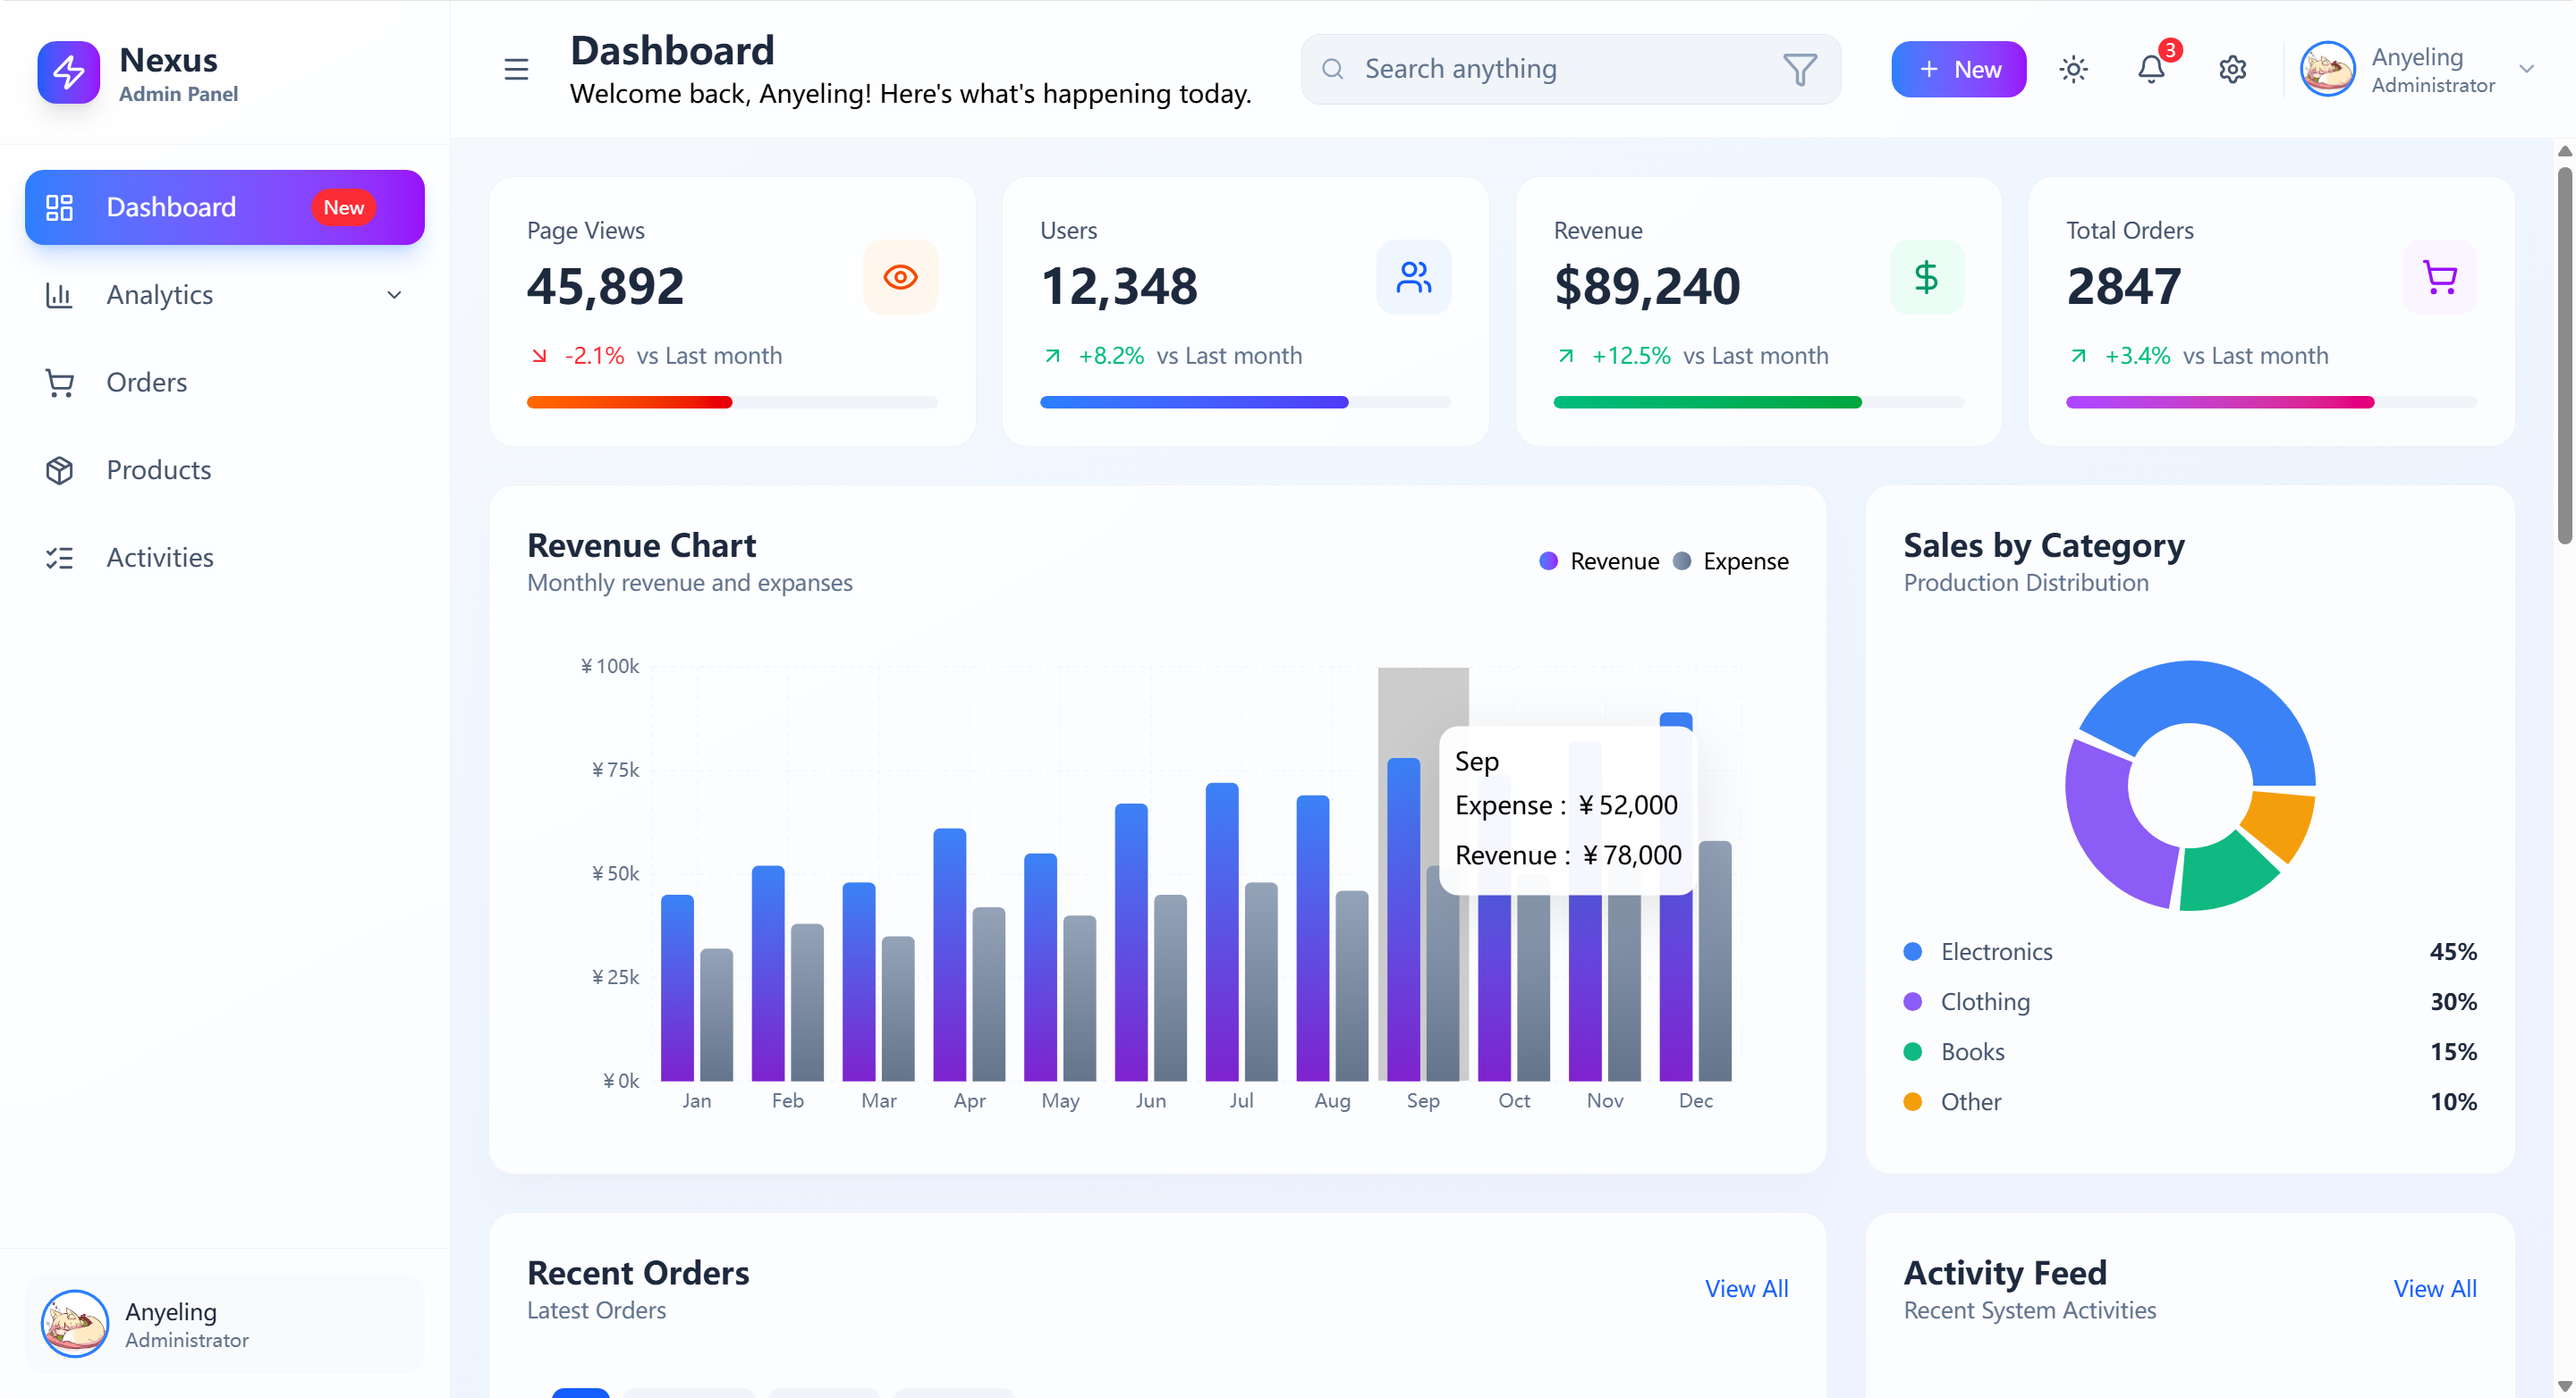
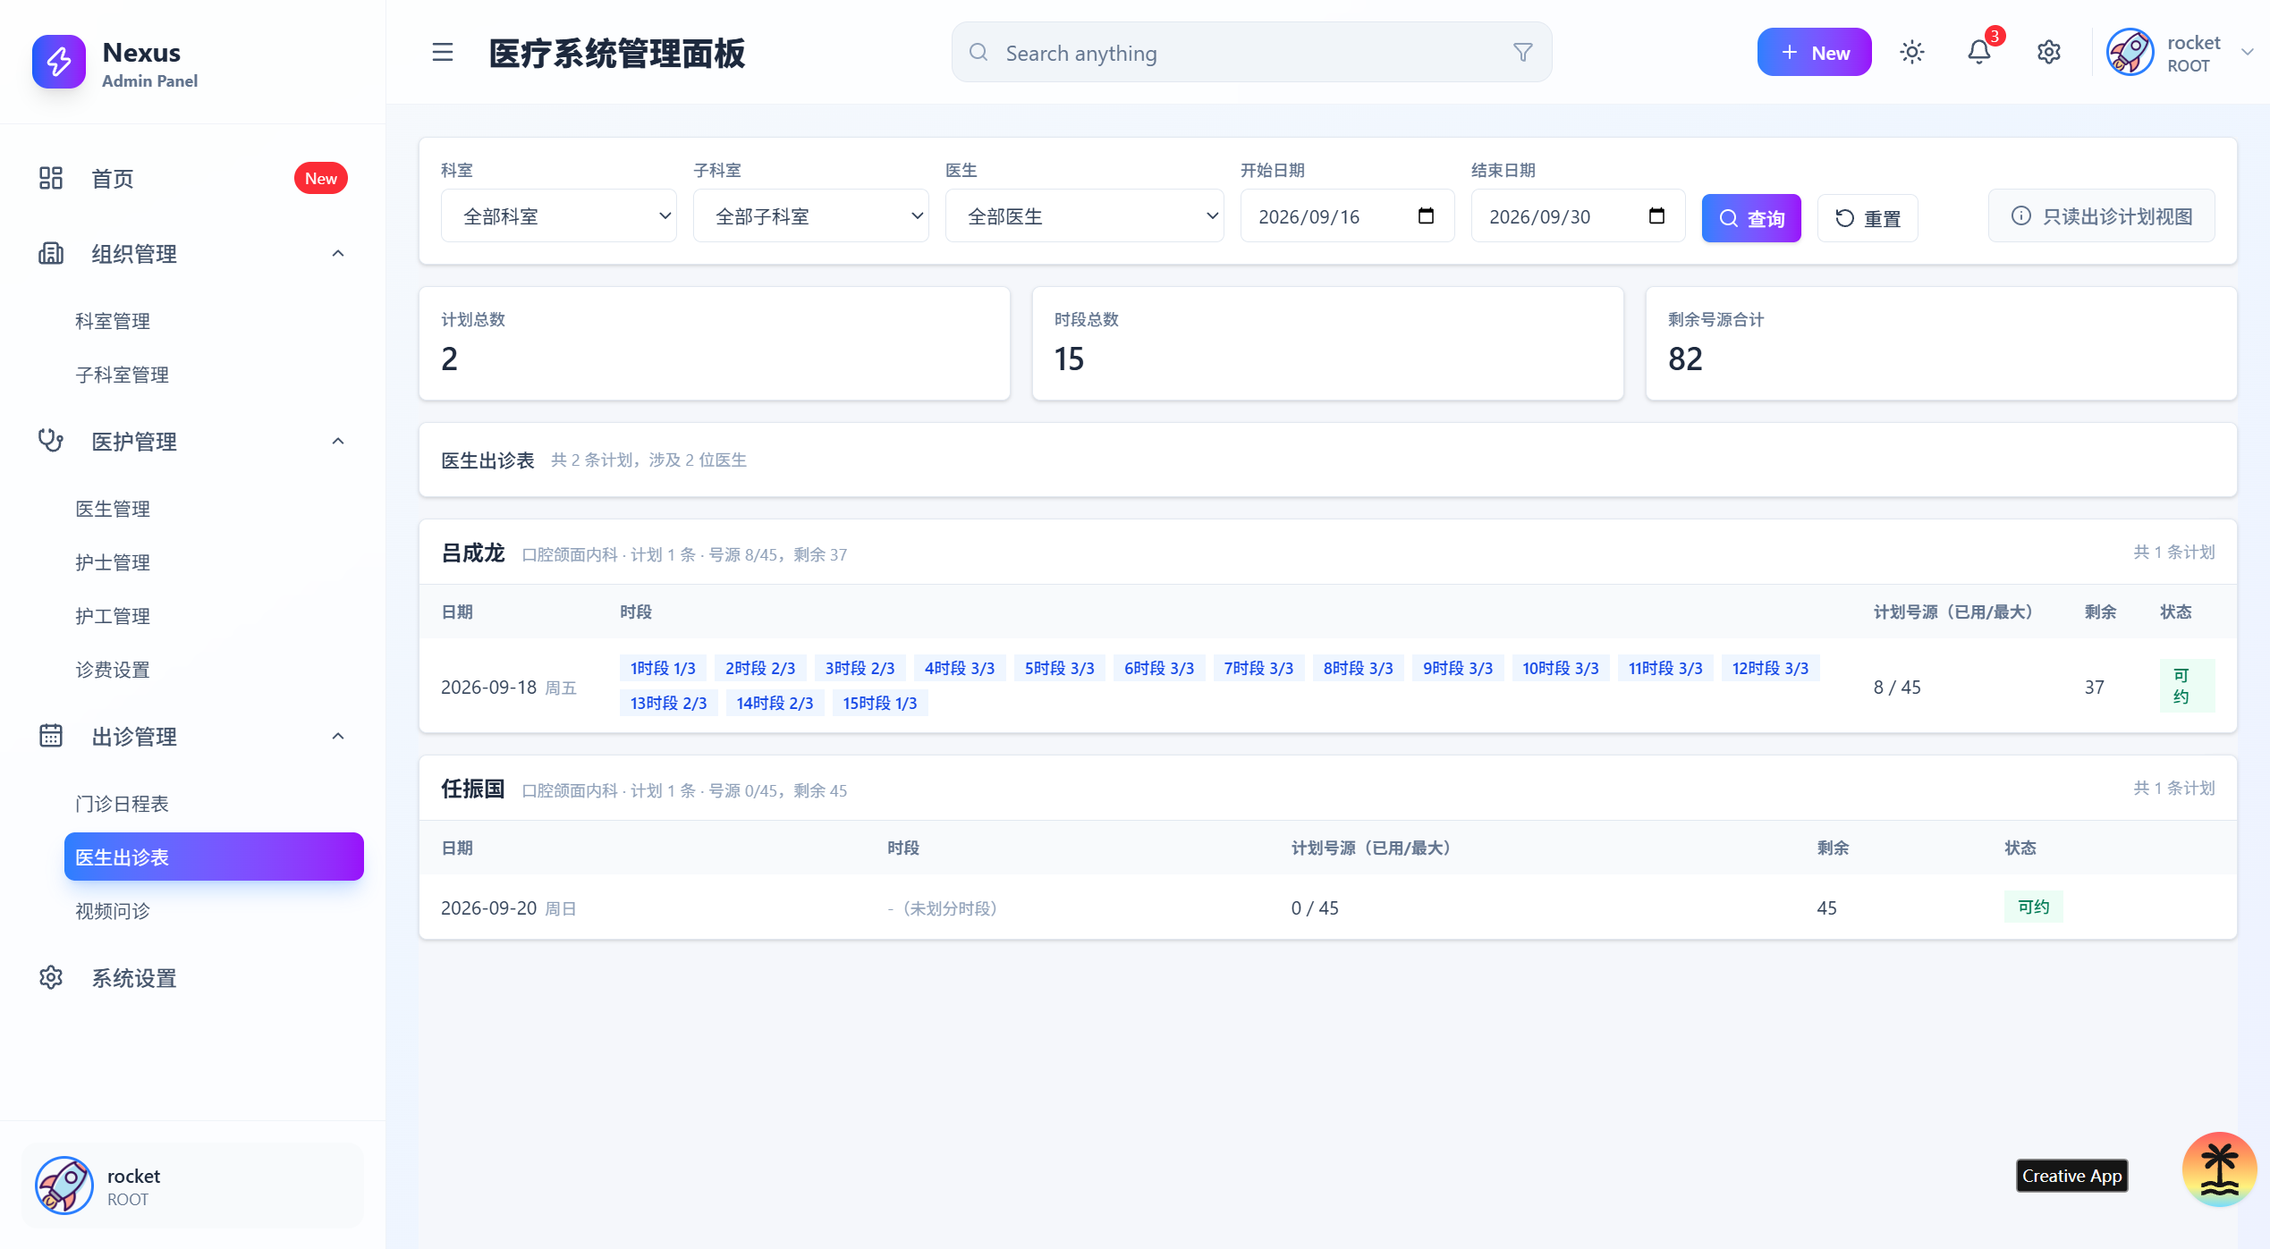
feat: 补充项目

diff --git a/src/components/ProjectSection.jsx b/src/components/ProjectSection.jsx
@@ -2,30 +2,39 @@ import { ExternalLink, FolderGit2, ArrowRight } from "lucide-react";
 const projects = [
   {
     id: 1,
-    title: "响应式仪表盘",
-    desc: "使用 React、Tailwind CSS、Recharts 和 Lucide 构建的精致仪表盘。",
+    title: "医疗管理面板",
+    desc: "覆盖「医生排班 -> 患者实名挂号 -> 扫码支付 -> 医生接诊写病历」全链路的医疗预约挂号平台",
     image: "/projects/project1.png",
-    tags: ["React", "Tailwindcss", "Rechart"],
-    demoUrl: "http://pannel.jxutcm.top",
-    githubUrl: "https://github.com/Anyeling0620/DashboardFrontend",
+    tags: ["Golang", "PGSQL", "Redis", "RocketMQ", "TypeScript", "React", "Tailwind CSS"],
+    demoUrl: "https://medical.jxutcm.top",
+    githubUrl: "https://github.com/Anyeling0620/Medical-Backend",
+  },
+  {
+    id: 4,
+    title: "仿联想商城全栈项目",
+    desc: "使用 React 19、TypeScript 和 Tailwind CSS 构建的联想商城电商前台，覆盖商品浏览、秒杀、搜索、购物车、下单支付到售后的完整链路。",
+    image: "/projects/project4.png",
+    tags: ["React", "TypeScript", "Vite", "Tailwindcss", "Zustand", "Ant Design", "React Router"],
+    demoUrl: "https://shop.lenovo.jxutcm.top",
+    githubUrl: "https://github.com/Anyeling0620/Lenovo-Shop",
   },
   {
     id: 2,
+    title: "响应式仪表盘",
+    desc: "使用 React、Tailwind CSS、Recharts 和 Lucide 构建的精致仪表盘。",
+    image: "/projects/project3.png",
+    tags: ["React", "Tailwindcss", "Rechart"],
+    demoUrl: "https://pannel.jxutcm.top",
+    githubUrl: "https://github.com/Anyeling0620/DashboardFrontend",
+  },
+  {
+    id: 3,
     title: "软件服务落地页",
     desc: "使用 React 和 Tailwind CSS 构建的产品落地页应用。",
     image: "/projects/project2.png",
     tags: ["React", "Tailwindcss", "Zustand"],
-    demoUrl: "http://home.jxutcm.top",
+    demoUrl: "https://home.jxutcm.top",
     githubUrl: "https://github.com/Anyeling0620/SaaSLanding",
-  },
-  {
-    id: 3,
-    title: "主页入口",
-    desc: "使用 React、Tailwind CSS 和动画效果构建的介绍页应用。",
-    image: "/projects/project3.png",
-    tags: ["React", "Tailwindcss", "Animation"],
-    demoUrl: "http://jxutcm.top",
-    githubUrl: "https://github.com/Anyeling0620/Profile",
   },
 ];
 export default function ProjectSection() {
@@ -39,7 +48,7 @@ export default function ProjectSection() {
           这里展示了一些我近期完成的项目。
         </p>
 
-        <div className="grid grid-cols-1 md:grid-cols-2 lg:grid-cols-3 gap-8">
+        <div className="grid grid-cols-1 md:grid-cols-2 lg:grid-cols-2 gap-8">
           {projects.map((project, key) => (
             <div
               className="group bg-card rounded-lg overflow-hidden shadow-xs card-hover gradient-border"
